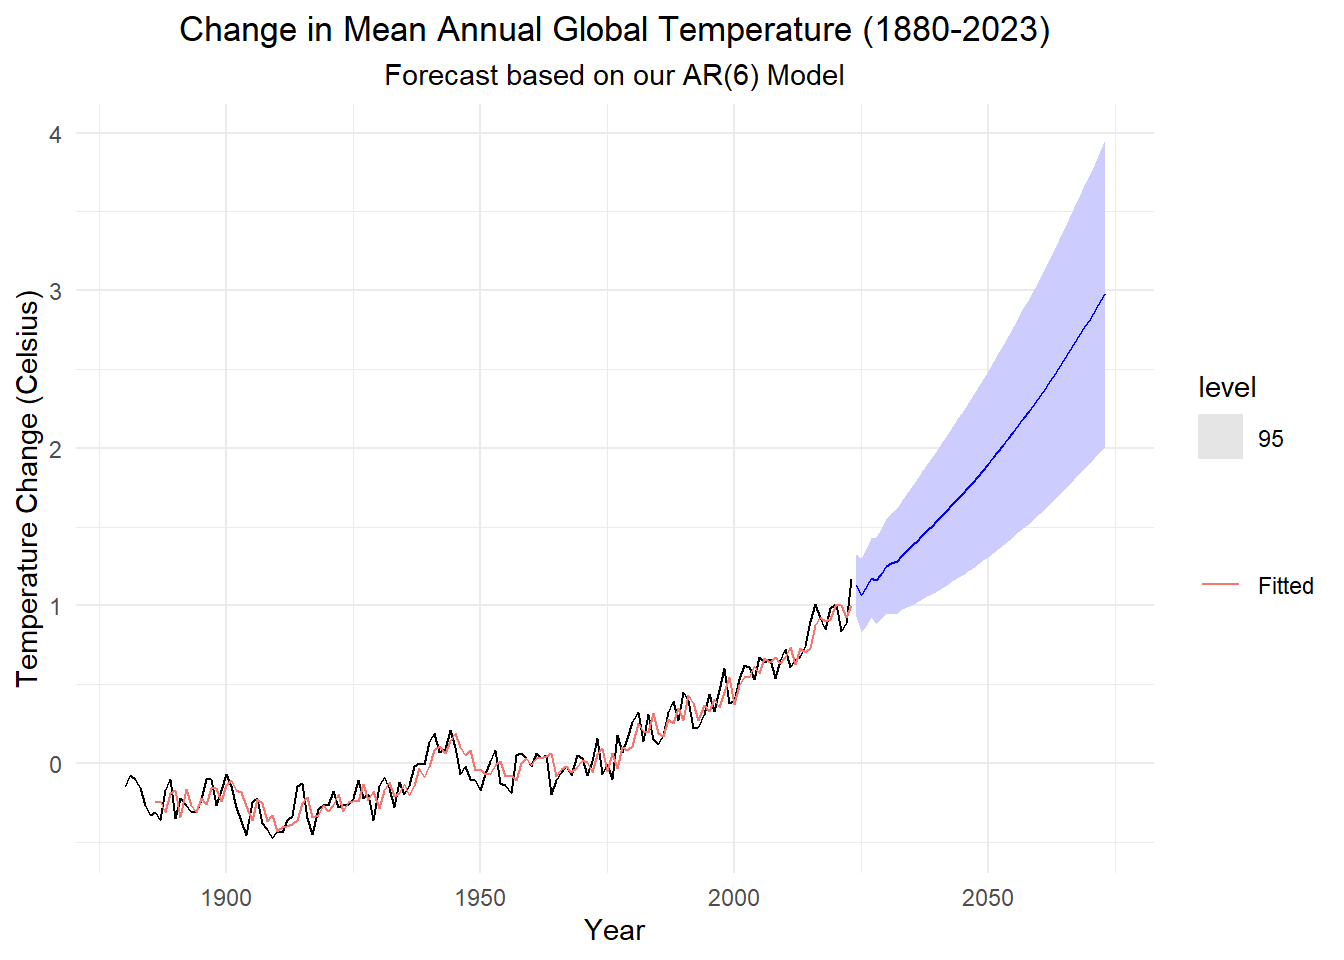
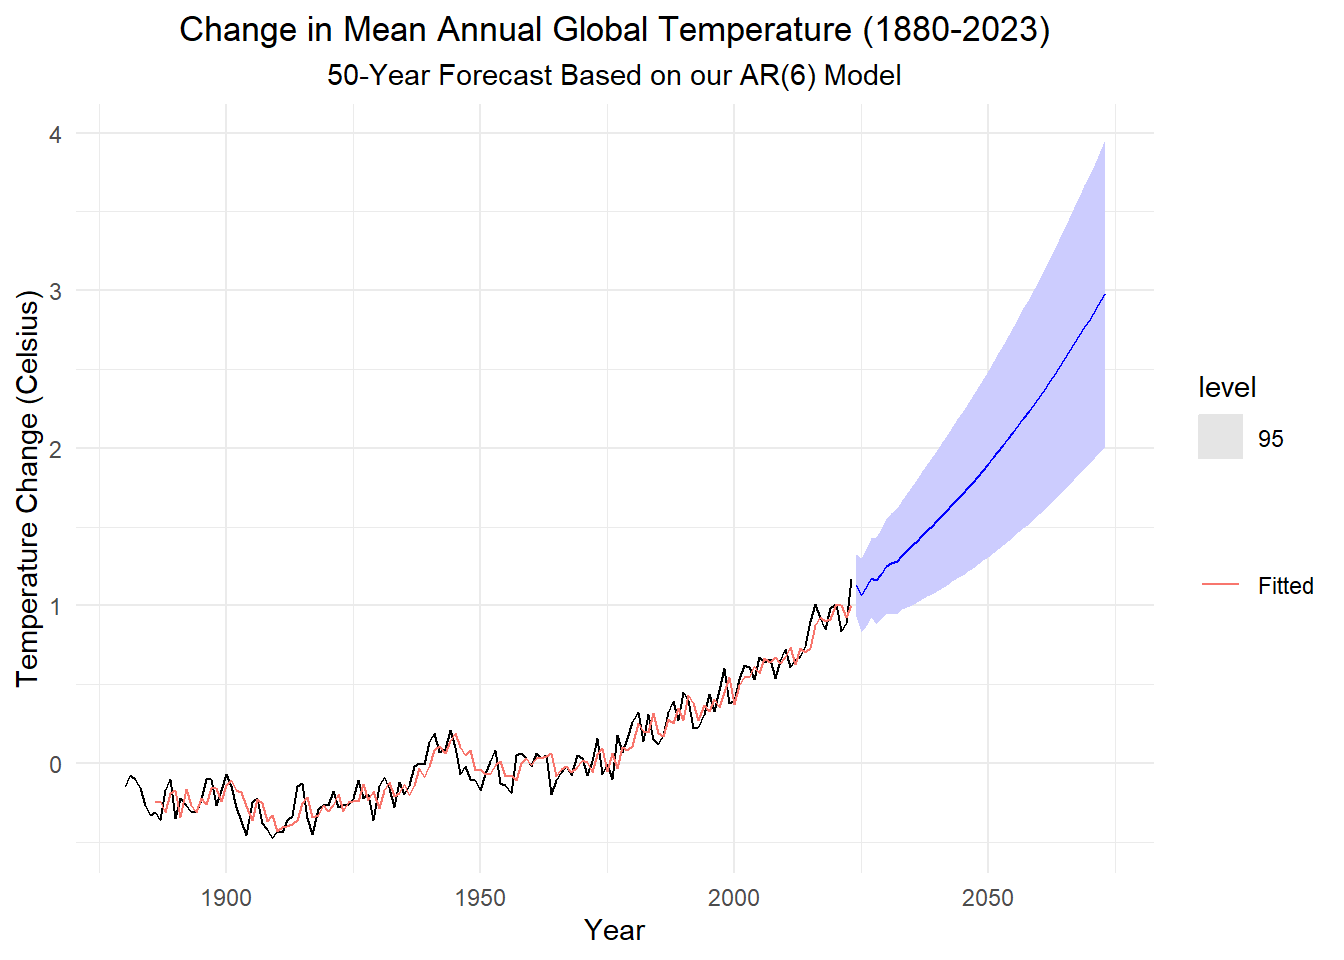
4-4

Changed region(s): [[0.25, 0.0625, 0.6875, 0.0938]]

diff --git a/docs/chapter_4_lesson_4.html b/docs/chapter_4_lesson_4.html
@@ -1247,7 +1247,7 @@ Check Your Understanding
 <span id="cb29-8"><a href="#cb29-8" aria-hidden="true" tabindex="-1"></a>    <span class="at">x =</span> <span class="st">"Year"</span>,</span>
 <span id="cb29-9"><a href="#cb29-9" aria-hidden="true" tabindex="-1"></a>    <span class="at">y =</span> <span class="st">"Temperature Change (Celsius)"</span>,</span>
 <span id="cb29-10"><a href="#cb29-10" aria-hidden="true" tabindex="-1"></a>    <span class="at">title =</span> <span class="fu">paste0</span>(<span class="st">"Change in Mean Annual Global Temperature ("</span>, <span class="fu">min</span>(temps_ts<span class="sc">$</span>year), <span class="st">"-"</span>, <span class="fu">max</span>(temps_ts<span class="sc">$</span>year), <span class="st">")"</span>),</span>
-<span id="cb29-11"><a href="#cb29-11" aria-hidden="true" tabindex="-1"></a>    <span class="at">subtitle =</span> <span class="fu">paste0</span>(<span class="st">"Forecast based on our AR("</span>, <span class="fu">tidy</span>(global_ar) <span class="sc">|&gt;</span> <span class="fu">as_tibble</span>() <span class="sc">|&gt;</span> dplyr<span class="sc">::</span><span class="fu">select</span>(term) <span class="sc">|&gt;</span> <span class="fu">tail</span>(<span class="dv">1</span>) <span class="sc">|&gt;</span> <span class="fu">right</span>(<span class="dv">1</span>), <span class="st">") Model"</span>)</span>
+<span id="cb29-11"><a href="#cb29-11" aria-hidden="true" tabindex="-1"></a>    <span class="at">subtitle =</span> <span class="fu">paste0</span>(<span class="st">"50-Year Forecast Based on our AR("</span>, <span class="fu">tidy</span>(global_ar) <span class="sc">|&gt;</span> <span class="fu">as_tibble</span>() <span class="sc">|&gt;</span> dplyr<span class="sc">::</span><span class="fu">select</span>(term) <span class="sc">|&gt;</span> <span class="fu">tail</span>(<span class="dv">1</span>) <span class="sc">|&gt;</span> <span class="fu">right</span>(<span class="dv">1</span>), <span class="st">") Model"</span>)</span>
 <span id="cb29-12"><a href="#cb29-12" aria-hidden="true" tabindex="-1"></a>  ) <span class="sc">+</span></span>
 <span id="cb29-13"><a href="#cb29-13" aria-hidden="true" tabindex="-1"></a>  <span class="fu">theme_minimal</span>() <span class="sc">+</span></span>
 <span id="cb29-14"><a href="#cb29-14" aria-hidden="true" tabindex="-1"></a>  <span class="fu">theme</span>(</span>
@@ -1393,8 +1393,18 @@ Check Your Understanding
 <span id="cb39-5"><a href="#cb39-5" aria-hidden="true" tabindex="-1"></a>  <span class="fu">autoplot</span>(global_ts, <span class="at">level =</span> <span class="dv">95</span>) <span class="sc">+</span></span>
 <span id="cb39-6"><a href="#cb39-6" aria-hidden="true" tabindex="-1"></a><span class="co">#   geom_line(aes(y = .mean, color = "Fitted"),</span></span>
 <span id="cb39-7"><a href="#cb39-7" aria-hidden="true" tabindex="-1"></a><span class="co">#     data = augment(global_ar_book)) +</span></span>
-<span id="cb39-8"><a href="#cb39-8" aria-hidden="true" tabindex="-1"></a><span class="co">#   scale_color_discrete(name = "")</span></span>
-<span id="cb39-9"><a href="#cb39-9" aria-hidden="true" tabindex="-1"></a>  <span class="fu">theme_minimal</span>()</span></code><button title="Copy to Clipboard" class="code-copy-button"><i class="bi"></i></button></pre></div>
+<span id="cb39-8"><a href="#cb39-8" aria-hidden="true" tabindex="-1"></a><span class="co">#   scale_color_discrete(name = "") +</span></span>
+<span id="cb39-9"><a href="#cb39-9" aria-hidden="true" tabindex="-1"></a>    <span class="fu">labs</span>(</span>
+<span id="cb39-10"><a href="#cb39-10" aria-hidden="true" tabindex="-1"></a>      <span class="at">x =</span> <span class="st">"Year"</span>,</span>
+<span id="cb39-11"><a href="#cb39-11" aria-hidden="true" tabindex="-1"></a>      <span class="at">y =</span> <span class="st">"Temperature Change (Celsius)"</span>,</span>
+<span id="cb39-12"><a href="#cb39-12" aria-hidden="true" tabindex="-1"></a>      <span class="at">title =</span> <span class="fu">paste0</span>(<span class="st">"Change in Mean Annual Global Temperature ("</span>, <span class="fu">min</span>(temps_ts<span class="sc">$</span>year), <span class="st">"-"</span>, <span class="fu">max</span>(temps_ts<span class="sc">$</span>year), <span class="st">")"</span>),</span>
+<span id="cb39-13"><a href="#cb39-13" aria-hidden="true" tabindex="-1"></a>      <span class="at">subtitle =</span> <span class="st">"100-Year Forecast Based on the Book's AR(4) Model"</span></span>
+<span id="cb39-14"><a href="#cb39-14" aria-hidden="true" tabindex="-1"></a>    ) <span class="sc">+</span></span>
+<span id="cb39-15"><a href="#cb39-15" aria-hidden="true" tabindex="-1"></a>    <span class="fu">theme_minimal</span>() <span class="sc">+</span></span>
+<span id="cb39-16"><a href="#cb39-16" aria-hidden="true" tabindex="-1"></a>    <span class="fu">theme</span>(</span>
+<span id="cb39-17"><a href="#cb39-17" aria-hidden="true" tabindex="-1"></a>      <span class="at">plot.title =</span> <span class="fu">element_text</span>(<span class="at">hjust =</span> <span class="fl">0.5</span>),</span>
+<span id="cb39-18"><a href="#cb39-18" aria-hidden="true" tabindex="-1"></a>      <span class="at">plot.subtitle =</span> <span class="fu">element_text</span>(<span class="at">hjust =</span> <span class="fl">0.5</span>)</span>
+<span id="cb39-19"><a href="#cb39-19" aria-hidden="true" tabindex="-1"></a>    )</span></code><button title="Copy to Clipboard" class="code-copy-button"><i class="bi"></i></button></pre></div>
 </details>
 <div class="cell-output-display">
 <p><img src="chapter_4_lesson_4_files/figure-html/unnamed-chunk-31-1.png" class="img-fluid" width="672"></p>
